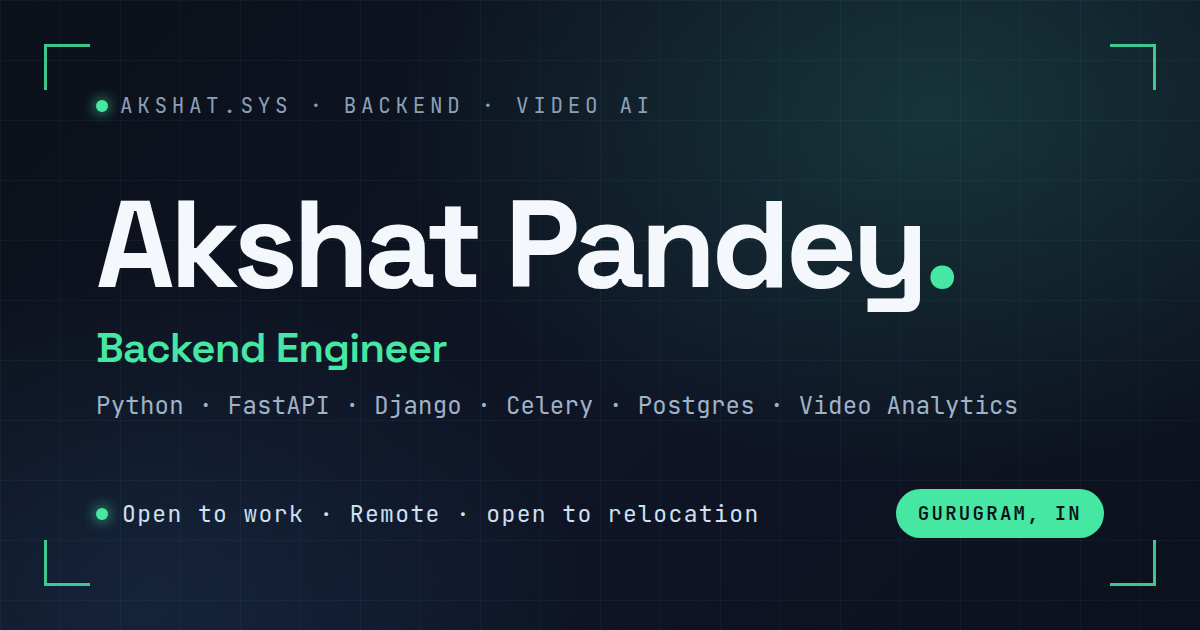
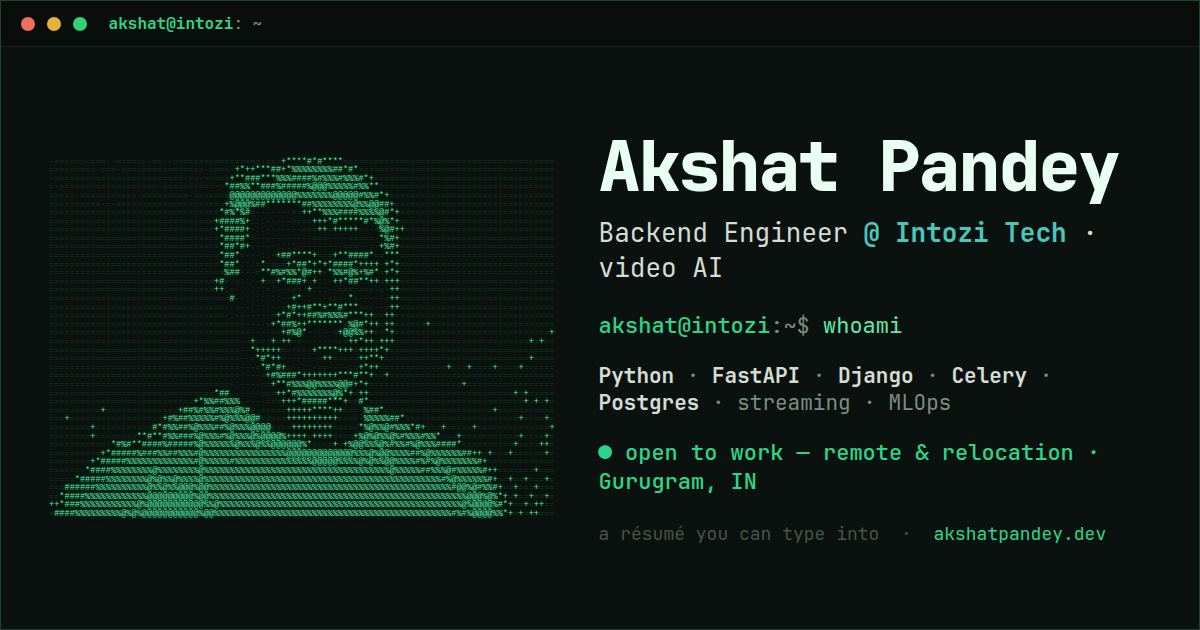
feat: update meta descriptions and enhance terminal component details

diff --git a/index.html b/index.html
@@ -20,10 +20,10 @@
     <meta name="theme-color" content="#070b09" />
     <meta
       name="description"
-      content="Akshat Pandey — backend engineer building Python services for computer-vision and video analytics. Async pipelines, streaming, clean APIs and honest data models. ~2 yrs at Intozi Tech. Open to work — remote or relocation."
+      content="Akshat Pandey — backend engineer for computer-vision & video analytics at Intozi Tech. Python, FastAPI, Django, Celery; streaming and async pipelines. My résumé, built as an interactive terminal. Open to work — remote or relocation."
     />
     <meta name="author" content="Akshat Pandey" />
-    <meta name="color-scheme" content="dark light" />
+    <meta name="color-scheme" content="dark" />
     <meta name="robots" content="index, follow" />
     <!-- ⚠ update the domain in these absolute URLs to your real deployed site -->
     <link rel="canonical" href="https://akshatpandey.dev/" />
@@ -34,19 +34,19 @@
     <meta property="og:title" content="Akshat Pandey — Backend Engineer" />
     <meta
       property="og:description"
-      content="Backend engineer for computer-vision & video analytics — streaming, async pipelines, clean APIs. ~2 yrs at Intozi Tech. Open to work."
+      content="Backend engineer for video-AI at Intozi Tech — Python, FastAPI, Django, streaming and async pipelines. A résumé you can actually type into. Open to work — remote or relocation."
     />
     <meta property="og:image" content="https://akshatpandey.dev/og.png" />
     <meta property="og:image:width" content="1200" />
     <meta property="og:image:height" content="630" />
-    <meta property="og:image:alt" content="Akshat Pandey — Backend Engineer. Python, FastAPI, Django, video analytics. Open to work." />
+    <meta property="og:image:alt" content="Akshat Pandey's terminal résumé — backend engineer, Python / FastAPI / Django, video AI. Open to work." />
     <meta property="og:locale" content="en_IN" />
 
     <meta name="twitter:card" content="summary_large_image" />
     <meta name="twitter:title" content="Akshat Pandey — Backend Engineer" />
     <meta
       name="twitter:description"
-      content="Backend engineer for computer-vision & video analytics. Streaming, async pipelines, clean APIs. Open to work."
+      content="Backend engineer for video-AI at Intozi Tech. Python, FastAPI, Django, streaming, async pipelines. A résumé you can type into. Open to work."
     />
     <meta name="twitter:image" content="https://akshatpandey.dev/og.png" />
 

diff --git a/src/components/Terminal.tsx b/src/components/Terminal.tsx
@@ -257,9 +257,10 @@ export function Terminal() {
           <aside className="panel">
             <div className="kv">
               <span className="k">role</span><span>{ROLE}</span>
-              <span className="k">company</span><span>Intozi Tech</span>
+              <span className="k">company</span><span>Intozi Tech · 2 yrs</span>
               <span className="k">base</span><span>Gurugram, IN</span>
               <span className="k">degree</span><span>B.Tech CS · BIT Durg</span>
+              <span className="k">award</span><span className="am">KAVACH'23 — national hackathon, winner</span>
               <span className="k">status</span><span className="g">● open to work</span>
             </div>
             <div className="btnrow" style={{ marginTop: 16 }}>
@@ -280,7 +281,15 @@ export function Terminal() {
           <div>
             <div className="lr"><span className="g bold">{e.organization}</span> <span className="dim">{e.role}</span> {statusTag(e.status)}</div>
             <p className="out dim measure" style={{ marginTop: 6 }}>{e.description}</p>
-            <div style={{ marginTop: 10 }}>
+            <div className="lr" style={{ marginTop: 12, gap: 26 }}>
+              {e.metrics.map((m) => (
+                <div key={m.label}>
+                  <div className="g bold" style={{ fontSize: '1.15em' }}>{m.value}</div>
+                  <div className="faint" style={{ fontSize: 12 }}>{m.label}</div>
+                </div>
+              ))}
+            </div>
+            <div style={{ marginTop: 12 }}>
               {e.highlights.map((h, i) => (
                 <p className="out measure" key={i} style={{ marginTop: 8 }}><span className="g">→ </span>{h}</p>
               ))}

diff --git a/src/components/Htop.tsx b/src/components/Htop.tsx
@@ -38,7 +38,7 @@ export function Htop({ reducedMotion, onExit }: { reducedMotion: boolean; onExit
   const [cores, setCores] = useState<number[]>(() => Array.from({ length: 8 }, () => rnd(8, 55)));
   const [procs, setProcs] = useState<Proc[]>(BASE);
   const [mem, setMem] = useState(() => rnd(46, 58));
-  const t0 = useRef(Date.now());
+  const [elapsed, setElapsed] = useState(0);
   const closeRef = useRef<HTMLButtonElement>(null);
 
   useEffect(() => {
@@ -57,13 +57,14 @@ export function Htop({ reducedMotion, onExit }: { reducedMotion: boolean; onExit
         setCores((cs) => cs.map((c) => clamp(c + rnd(-14, 14), 2, 99)));
         setMem((m) => clamp(m + rnd(-3, 3), 30, 74));
         setProcs((ps) => ps.map((p) => ({ ...p, cpu: clamp(p.cpu + rnd(-6, 6), 0, 99), mem: clamp(p.mem + rnd(-2, 2), 0, 99) })));
+        setElapsed((s) => s + 1);
       }, 1100);
     }
     return () => { window.removeEventListener('keydown', onKey); if (iv) window.clearInterval(iv); };
   }, [reducedMotion, onExit]);
 
   const load = (cores.reduce((a, c) => a + c, 0) / cores.length / 100) * 4;
-  const up = Math.floor((Date.now() - t0.current) / 1000);
+  const up = elapsed;
   const sorted = [...procs].sort((a, b) => b.cpu - a.cpu);
 
   return (
